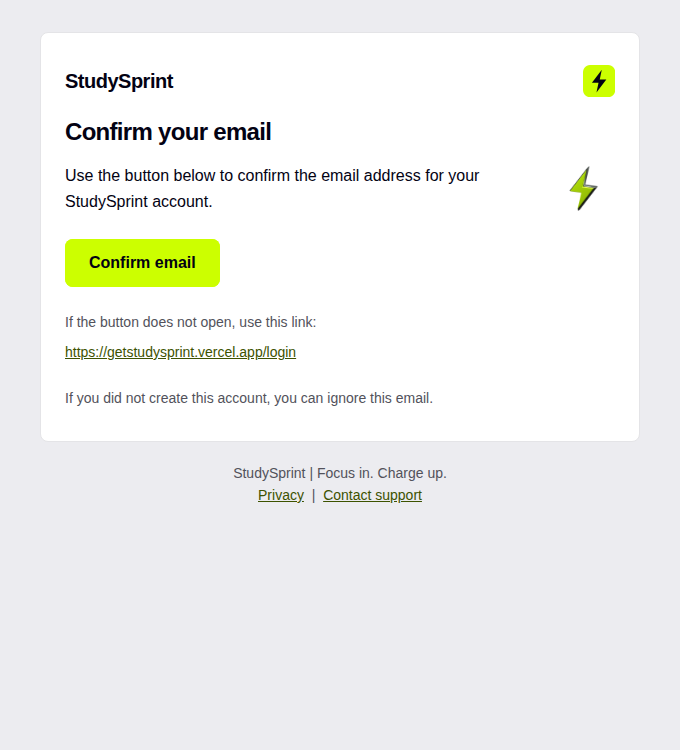
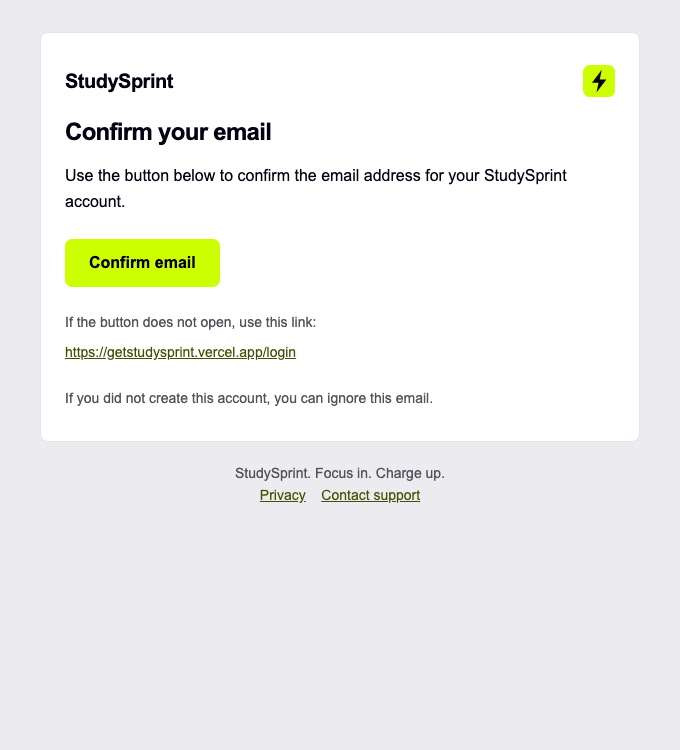
docs(email): update design guide, preview renders, and journal
Document the #52525b secondary text contrast adjustment, refresh
rendered preview screenshots across viewports and color schemes, and
record the hosted Supabase template deployment in the project journal.

diff --git a/design/email/README.md b/design/email/README.md
@@ -1,12 +1,13 @@
 # StudySprint email artwork
 
-StudySprint account emails use the app's charge bolt as a small visual cue. The templates keep the product name and actions as text, so the message still reads when images are blocked.
+StudySprint account emails use the Glaxnimate charge mark as their only artwork, in the header's trailing corner. The templates keep the product name and actions as text, so the message still reads when images are blocked.
 
 ## Files
 
 - `charge-bolt.blend` is the editable Blender scene. It imports the landing page's existing charge sculpture and renders a transparent 320 × 320 PNG.
 - `charge-mark.project.json` is the editable Glaxnimate project. The animated SVG shows a short bolt reveal. `charge-mark.static.svg` and `charge-mark.reduced-motion.svg` hold the complete still mark.
-- The email-compatible PNG exports are `frontend/public/email/charge-bolt.png` and `frontend/public/email/charge-mark.png`. Email templates use them as optional CSS backgrounds, so blocking images leaves the text layout intact without broken-image boxes. Clients that do not support background images simply omit the artwork.
+- `frontend/public/email/charge-mark.png` is the email export of the mark. The templates set it as an optional CSS background, so blocking images leaves the text layout intact without broken-image boxes. Clients that do not support background images omit it.
+- `frontend/public/email/charge-bolt.png` is the Blender render. No template uses it. It sat beside the confirmation copy, where it repeated the header mark and pushed the text into a narrow column on phones. It also left an empty gutter when images were blocked.
 - `previews/` contains browser screenshots made from the template files with sample links. These are design review images, not sent messages.
 
 ## Templates

diff --git a/docs/email-design-system.md b/docs/email-design-system.md
@@ -17,7 +17,7 @@ Use the wordmark `StudySprint` as live text. The tagline `Focus in. Charge up.` 
 | Canvas | `#ececf0` | Email page background |
 | Content surface | `#ffffff` | Main message panel |
 | Primary text | `#030213` | Headings, body, and button text |
-| Secondary text | `#717182` | Supporting details and footer copy |
+| Secondary text | `#52525b` | Supporting details and footer copy. The app's `#717182` measures 4.06:1 on the canvas, below AA for 14px text; this value measures 7.73:1 on white and 6.56:1 on the canvas |
 | Brand accent | `#ccff00` | Primary action fill and small brand details |
 | Accent text | `#3d5200` | Links or small text on a light surface |
 | Divider | `#e4e4e7` | Rules and panel outlines |
@@ -51,7 +51,7 @@ Include a descriptive text link to the same destination when a button cannot be 
 
 ### Footer
 
-Use muted text for the product name, support destination, and relevant privacy or account links. Include an unsubscribe link only for messages that are actually optional product or marketing email. Do not add one to account-security messages unless the delivery rules require it.
+Use muted text for the product name, support destination, and relevant privacy or account links. Separate footer items with line breaks or spacing, not pipes or dots. Include an unsubscribe link only for messages that are actually optional product or marketing email. Do not add one to account-security messages unless the delivery rules require it.
 
 ## Message structure
 

diff --git a/JOURNAL.md b/JOURNAL.md
@@ -3,6 +3,10 @@
 > Dated log of decisions, pivots, incidents, and quotes. Add entries as things happen —
 > retrospectives need this raw material to land. Reverse-chronological; one paragraph max per entry.
 
+## 2026-10-24: Tighten the account email layout #design
+
+Dropped the Blender bolt beside the confirmation copy. It repeated the header mark, squeezed the text into a narrow column on phones, and left an empty gutter when images were blocked; the other two templates never had it. Footers now use spacing instead of pipe separators, and preheaders are padded so inbox previews stop pulling in body copy. The design guide listed `#717182` for secondary text, which fails AA on the email canvas; it now records the `#52525b` the templates already used. The three hosted Supabase Auth templates were then updated through the Management API, after a check showed the dashboard copies matched the previous commit apart from trailing whitespace; a read-back confirmed they match the repository files.
+
 ## 2026-10-24: Add explicit deny RLS policy to oauth_states #security #database
 
 Added an explicit deny policy (`oauth_states_no_client_access`) with `USING (false)` to `public.oauth_states`. This resolves the `rls_enabled_no_policy` info suggestion in Supabase Security Advisor while ensuring client roles (`anon`, `authenticated`) cannot query or mutate OAuth state records, which remain strictly accessed by backend Edge Functions via the service role key.
